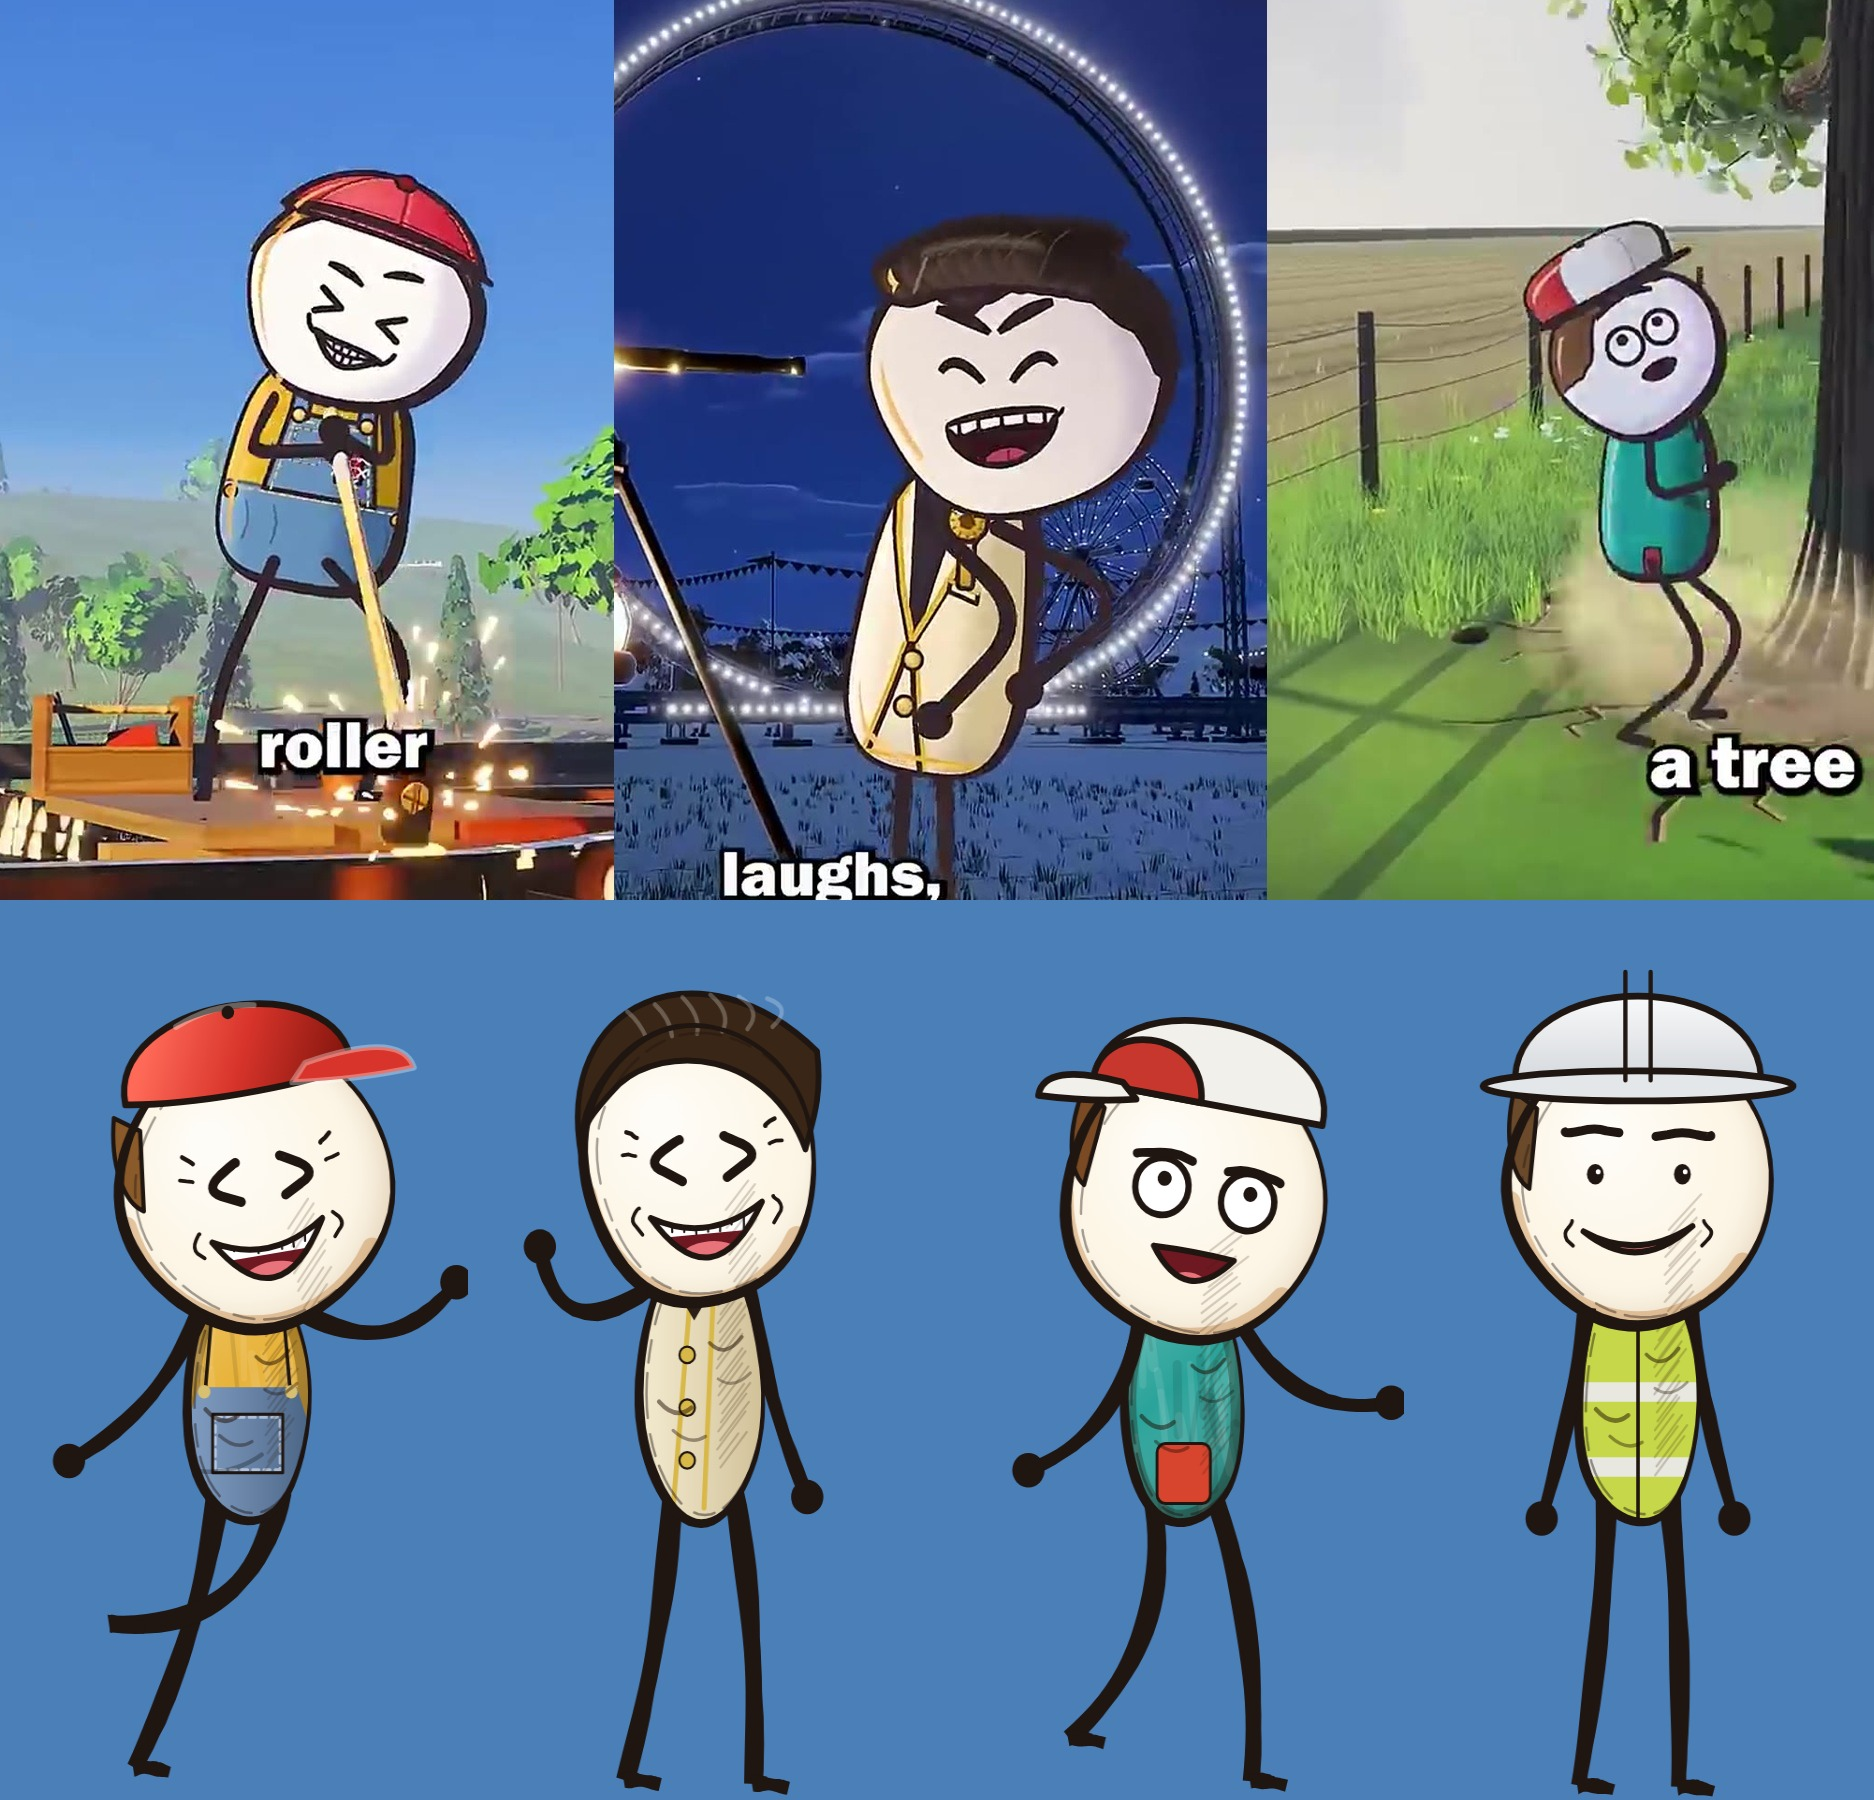
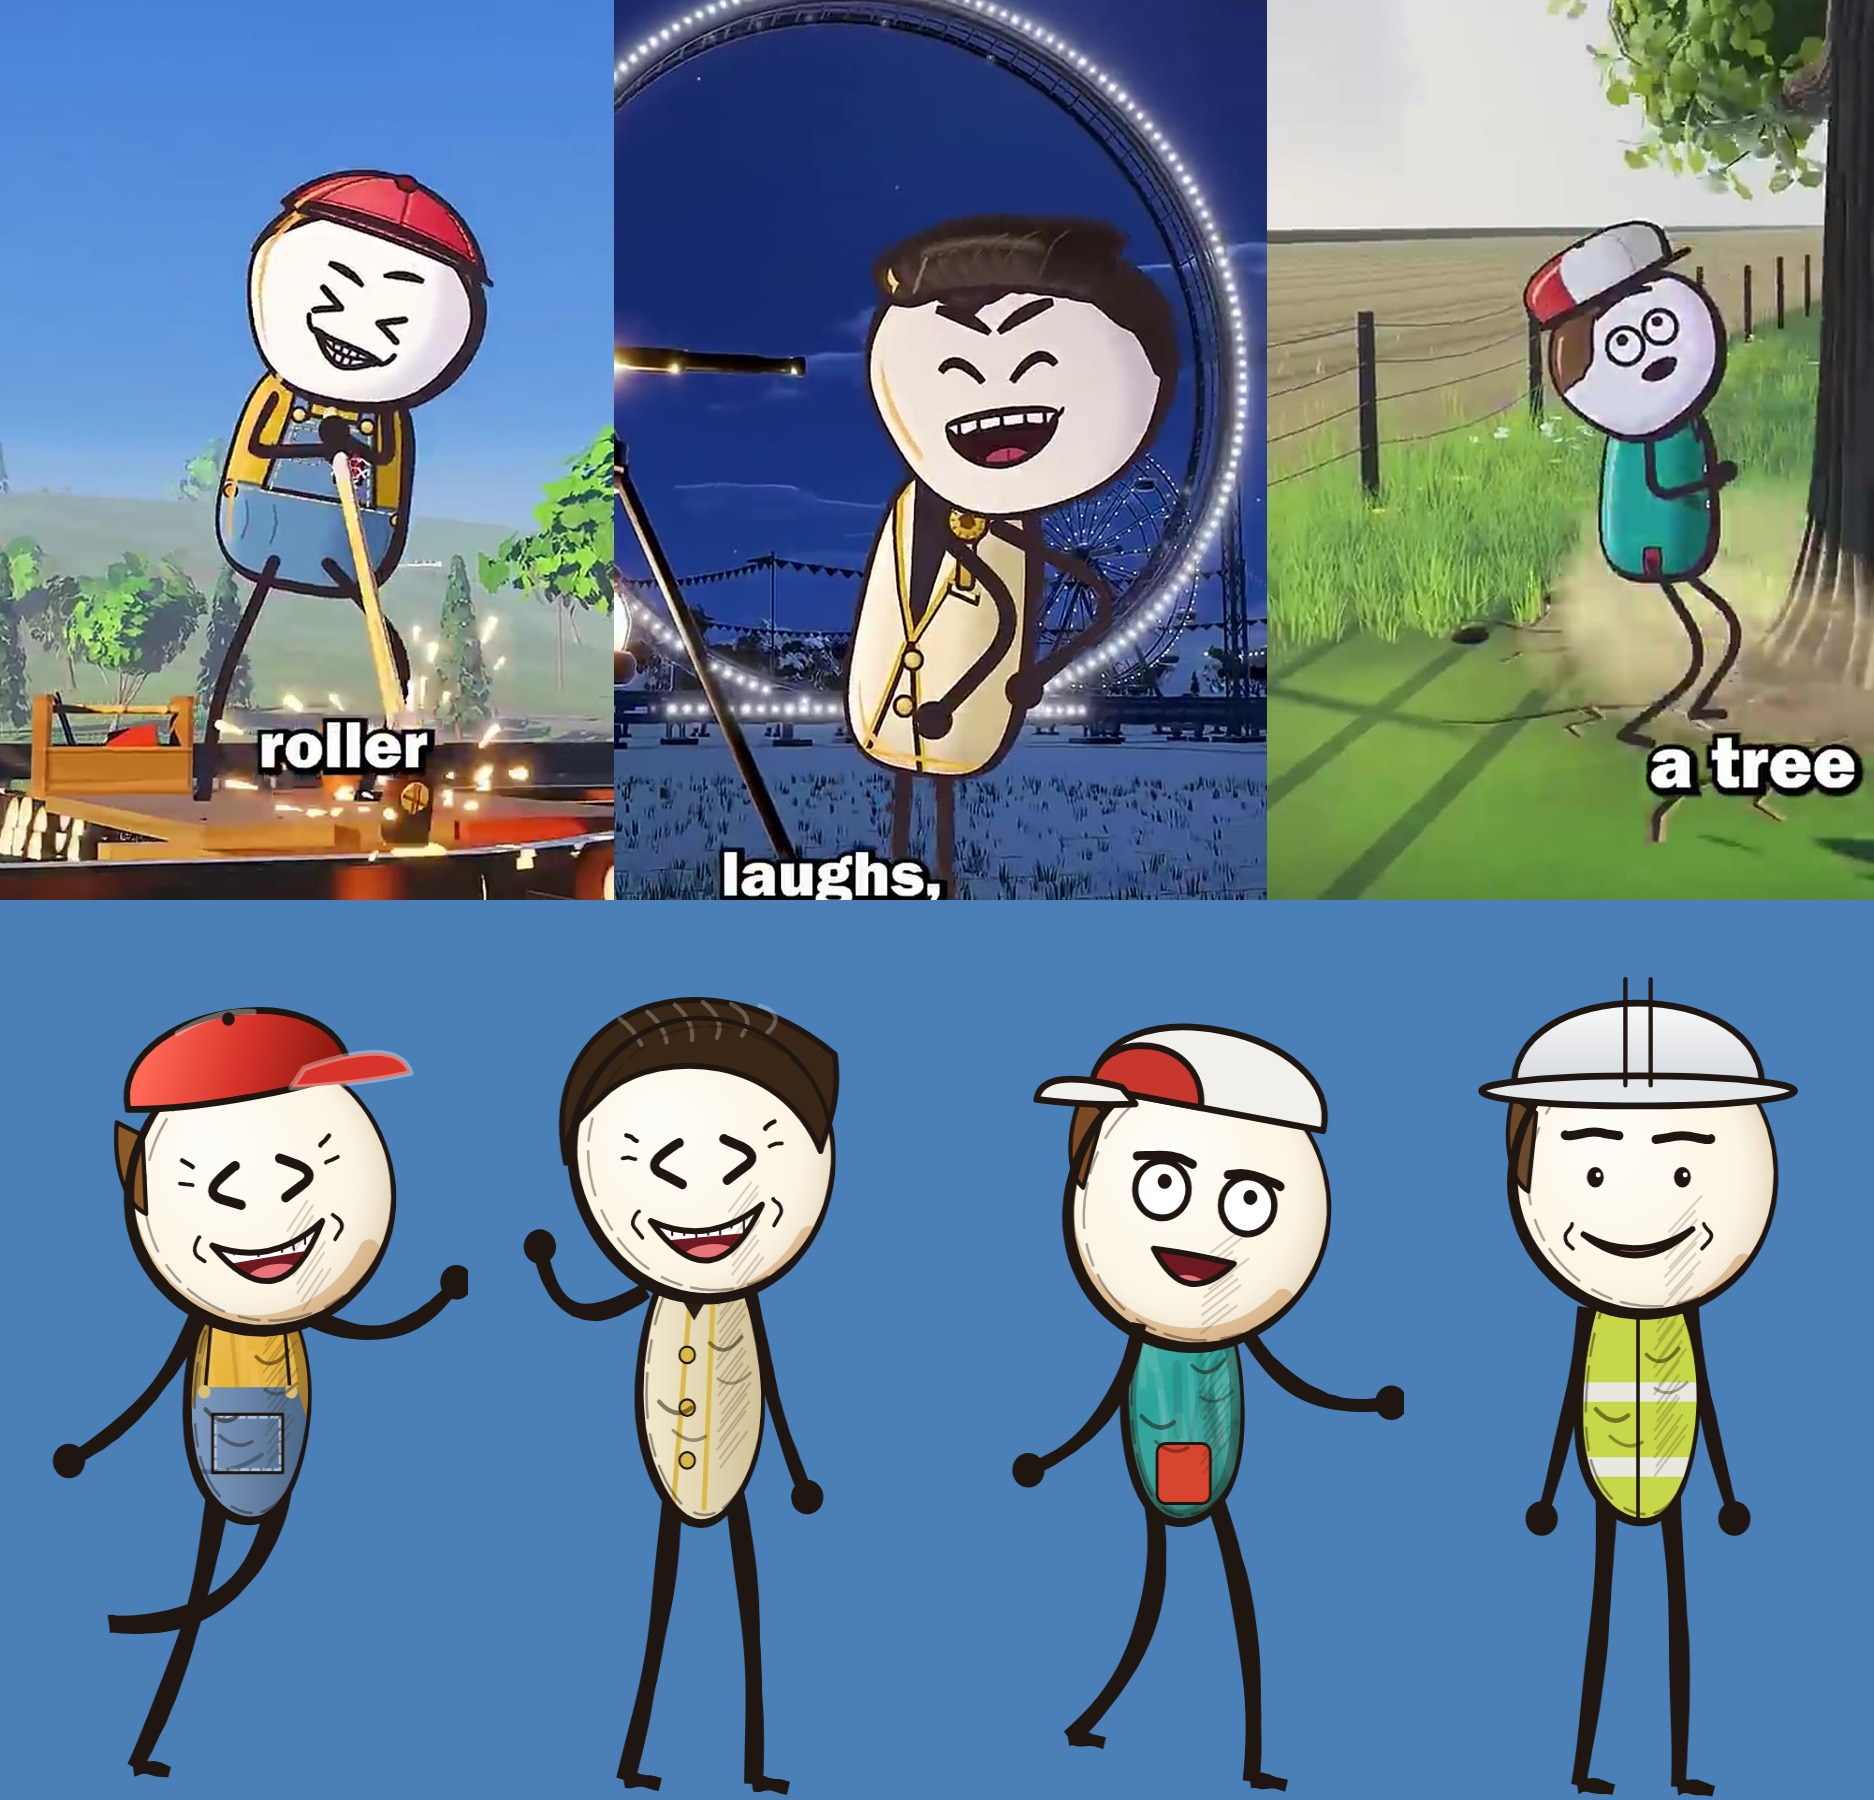
Style 2 heads: asymmetric circle with one fuller cheek instead of an oval

diff --git a/reel-studio/remotion-template/src/three/cast_designs.js b/reel-studio/remotion-template/src/three/cast_designs.js
@@ -1,9 +1,9 @@
 // Ten character designs for the stickman styles (numbered for the user's choice). `canvas` = look for stickdraw.js (style 2: 2D in 3D), `svg` = look for stickman_svg.js (style 3: flat cinematic).
 export const DESIGNS = [
-  { n: 1, svg: { hat: 'straw', hatColor: '#E3C06A', shirt: '#E6B93A', bib: '#5A7FB0', pants: '#5A7FB0', hair: 'short', hairColor: '#6A3D1C', bodyW: 0.9, headS: 1.3, rim: '#ffd9a0' }, id: 'barnaby', name: 'Red-cap kid', canvas: { hat: 'cap', hatColor: '#D8342B', shirt: '#E8B33A', overalls: '#5F86B8', hair: 'side', hairColor: '#8a5a2a', torsoH: 290, headW: 1.0 } },
-  { n: 2, svg: { hat: 'sun', hatColor: '#F2E3B0', shirt: '#C9556B', scarf: '#F2C14E', pants: '#3a2a3a', hair: 'short', hairColor: '#8A5A3A', bodyW: 1.5, headS: 1.25, rim: '#ffd9a0' }, id: 'mabel', name: 'Pompadour', canvas: { hair: 'pomp', hairColor: '#3a2616', vest: '#F6EBC8', trim: '#d9b84a', shirt: '#E8D9A0', torsoH: 320, headW: 0.86 } },
-  { n: 3, svg: { hat: 'capback', hatColor: '#D8342B', shirt: '#2F9A8D', pants: '#3b4150', bodyW: 1.1, headS: 1.4, rim: '#6f8cff' }, id: 'rex', name: 'Teal kid', canvas: { hat: 'trucker', hatColor: '#C8372D', hair: 'side', hairColor: '#7a4a24', shirt: '#2BA39A', patch: '#D8452F', headW: 0.97, torsoH: 280 } },
-  { n: 4, svg: { hat: 'hard', hatColor: '#F2B31A', goggles: true, shirt: '#d8d8d4', bib: '#E8782A', pants: '#E8782A', bodyW: 1.3, headS: 1.25, rim: '#ffd9a0' }, id: 'gus', name: 'Site worker', canvas: { hat: 'hard', vis: '#C6D84A', shirt: '#C6D84A', hair: 'side', hairColor: '#6a4a2a', torsoH: 300, headW: 0.97 } },
+  { n: 1, svg: { hat: 'straw', hatColor: '#E3C06A', shirt: '#E6B93A', bib: '#5A7FB0', pants: '#5A7FB0', hair: 'short', hairColor: '#6A3D1C', bodyW: 0.9, headS: 1.3, rim: '#ffd9a0' }, id: 'barnaby', name: 'Red-cap kid', canvas: { hat: 'cap', hatColor: '#D8342B', shirt: '#E8B33A', overalls: '#5F86B8', asym: 1, hair: 'side', hairColor: '#8a5a2a', torsoH: 290, headW: 1.0 } },
+  { n: 2, svg: { hat: 'sun', hatColor: '#F2E3B0', shirt: '#C9556B', scarf: '#F2C14E', pants: '#3a2a3a', hair: 'short', hairColor: '#8A5A3A', bodyW: 1.5, headS: 1.25, rim: '#ffd9a0' }, id: 'mabel', name: 'Pompadour', canvas: { asym: -1, hair: 'pomp', hairColor: '#3a2616', vest: '#F6EBC8', trim: '#d9b84a', shirt: '#E8D9A0', torsoH: 320, headW: 1.0 } },
+  { n: 3, svg: { hat: 'capback', hatColor: '#D8342B', shirt: '#2F9A8D', pants: '#3b4150', bodyW: 1.1, headS: 1.4, rim: '#6f8cff' }, id: 'rex', name: 'Teal kid', canvas: { asym: 1, hat: 'trucker', hatColor: '#C8372D', hair: 'side', hairColor: '#7a4a24', shirt: '#2BA39A', patch: '#D8452F', headW: 1.0, torsoH: 280 } },
+  { n: 4, svg: { hat: 'hard', hatColor: '#F2B31A', goggles: true, shirt: '#d8d8d4', bib: '#E8782A', pants: '#E8782A', bodyW: 1.3, headS: 1.25, rim: '#ffd9a0' }, id: 'gus', name: 'Site worker', canvas: { asym: -1, hat: 'hard', vis: '#C6D84A', shirt: '#C6D84A', hair: 'side', hairColor: '#6a4a2a', torsoH: 300, headW: 1.0 } },
   { n: 5, svg: { hat: 'fedora', hatColor: '#4a4036', coat: '#b99a6b', tie: '#7a1f26', shirt: '#eeeeea', pants: '#2a2a30', bodyW: 0.95, headS: 1.15, rim: '#6f8cff' }, id: 'nox', name: 'Nox, the detective', canvas: { hat: 'fedora', hatColor: '#4a4036', coat: '#b99a6b', tie: '#7a1f26', shirt: '#eeeeea', sleeve: '#b99a6b', ink: '#1a1a22', boots: '#1d1d22', nose: 1.9, headTilt: -4, body: { headS: 1.2, torsoW: 0.95, torsoH: 280, legL: 520, hand: 22, shoe: 1.1, armL: 1.3 } } },
   { n: 6, svg: { hat: 'scout', hatColor: '#8a6a3a', neckerchief: '#d8342b', backpack: '#6a4a2a', shirt: '#9bbf6a', pants: '#6a5a3a', bodyW: 1.0, headS: 1.3, rim: '#ffd9a0' }, id: 'pip', name: 'Pip, the scout', canvas: { hat: 'scout', hatColor: '#8a6a3a', band: '#c24a2a', neckerchief: '#d8342b', shirt: '#9bbf6a', sleeve: '#9bbf6a', backpack: '#6a4a2a', hair: '#c9863a', freckles: '#b5663a', boots: '#4a3320', body: { headS: 1.5, torsoW: 1.0, torsoH: 170, legL: 280, hand: 22, shoe: 1.1, armL: 1.05 } } },
   { n: 7, svg: { hat: 'chef', apron: '#bcd7ee', shirt: '#f6f6f2', pants: '#3a3a40', bodyW: 1.7, headS: 1.2, rim: '#ffe9a0' }, id: 'beppo', name: 'Beppo, the chef', canvas: { hat: 'chef', apron: '#bcd7ee', shirt: '#f6f6f2', sleeve: '#f6f6f2', stache: '#3a2a1a', nose: 1.3, boots: '#2a2a2a', body: { headS: 1.3, torsoW: 1.75, torsoH: 200, legL: 300, hand: 22, shoe: 1.1, armL: 1.0 } } },

diff --git a/reel-studio/remotion-template/src/three/stickdraw.js b/reel-studio/remotion-template/src/three/stickdraw.js
@@ -35,7 +35,7 @@ export function drawStick(ctx, W, H, s) {
   ctx.clearRect(0, 0, W, H); ctx.save(); ctx.translate(W / 2, H * 0.985); ctx.scale(u, u); ctx.lineCap = 'round'; ctx.lineJoin = 'round';
   const rn = (i) => { const x = Math.sin((i + S0) * 127.1 + 311.7) * 43758.5453; return x - Math.floor(x); }, wb = (i, a = 1.6) => (rn(i * 7.3 + fr * 0.37) - 0.5) * 2 * a;
   const bob = Math.sin(t * 2.2 + seed) * 3 + Math.abs(Math.sin(walk * Math.PI)) * -12 * (walk ? 1 : 0), lean = pose.lean * R + walk * 0.05, hp = pose.hip || 0;
-  const HEADRX = 190 * (look.headW ?? 0.9), HEADRY = 190 * (look.headH ?? 1), TH = look.torsoH ?? 285, LEG = look.legL ?? 390, TWs = look.torsoW ?? 1.1;
+  const HEADRX = 186 * (look.headW ?? 1), HEADRY = 186 * (look.headH ?? 1), TH = look.torsoH ?? 285, LEG = look.legL ?? 390, TWs = look.torsoW ?? 1.1;
   const hipY = -LEG + bob, shY = hipY - TH, shX = Math.sin(lean) * 120, hdY = shY - HEADRY + 70 + bob * 0.3;
   // ---- ink loop: a closed shape outlined by a pen whose weight swells and thins around it (heavy on the shadow side, light on the lit side)
   const loop = (fn, n, base, lightAng = -0.9) => { const out = [], inn = []; for (let i = 0; i < n; i++) { const a = (i / n) * Math.PI * 2, p = fn(a), q = fn(a + 0.01), tx = q[0] - p[0], ty = q[1] - p[1], l = Math.hypot(tx, ty) || 1, nx = ty / l, ny = -tx / l, th = base * (0.5 + 0.95 * Math.pow(0.5 + 0.5 * Math.cos(a - lightAng - Math.PI), 1.4)) + wb(i * 3, 0.5); out.push([p[0] + nx * th * 0.5, p[1] + ny * th * 0.5]); inn.push([p[0] - nx * th * 0.5, p[1] - ny * th * 0.5]); }
@@ -73,7 +73,7 @@ export function drawStick(ctx, W, H, s) {
   ctx.restore(); loop(bean, 72, 9.5, -0.7); inner(bean, 60, 0.94, 0.45);
   // ---- head: a round, slightly tall oval; cream with a warm shaded rim; ink loop with a heavy shadow side
   ctx.save(); ctx.translate(shX * 1.1, hdY); ctx.rotate((pose.tilt + (look.headTilt || 0) + (expr.tilt2 || 0)) * R); const fx = turn * 56;
-  const headF = (a) => [Math.cos(a) * HEADRX * (1 + 0.035 * sm1(a) + (Math.cos(a) > 0 ? 0.03 : -0.01)), Math.sin(a) * HEADRY * (Math.sin(a) > 0 ? 1.0 : 0.97) * (1 + 0.03 * sm1(a + 1.3))];
+  const headF = (a) => { const r = 1 + 0.075 * Math.cos(a - 0.75 * (look.asym ?? 1)) + 0.022 * sm1(a); return [Math.cos(a) * HEADRX * r, Math.sin(a) * HEADRY * r]; };   // a circle with one fuller cheek, not an egg
   ctx.save(); ctx.beginPath(); for (let i = 0; i <= 56; i++) { const p = headF((i / 56) * Math.PI * 2); i ? ctx.lineTo(p[0], p[1]) : ctx.moveTo(p[0], p[1]); } ctx.closePath(); ctx.fillStyle = look.skin || '#fdf6e6'; ctx.fill(); ctx.clip();
   const hg = ctx.createRadialGradient(-HEADRX * 0.3, -HEADRY * 0.35, 20, 0, 0, HEADRY * 1.15); hg.addColorStop(0, 'rgba(255,255,255,0.7)'); hg.addColorStop(0.65, 'rgba(255,255,255,0)'); hg.addColorStop(1, 'rgba(150,100,40,0.34)'); ctx.fillStyle = hg; ctx.fillRect(-300, -300, 600, 600);
   ctx.strokeStyle = 'rgba(190,120,50,0.38)'; ctx.lineWidth = 30; ctx.beginPath(); ctx.ellipse(0, 0, HEADRX, HEADRY, 0, Math.PI * 0.2, Math.PI * 0.95); ctx.stroke(); ctx.restore();
